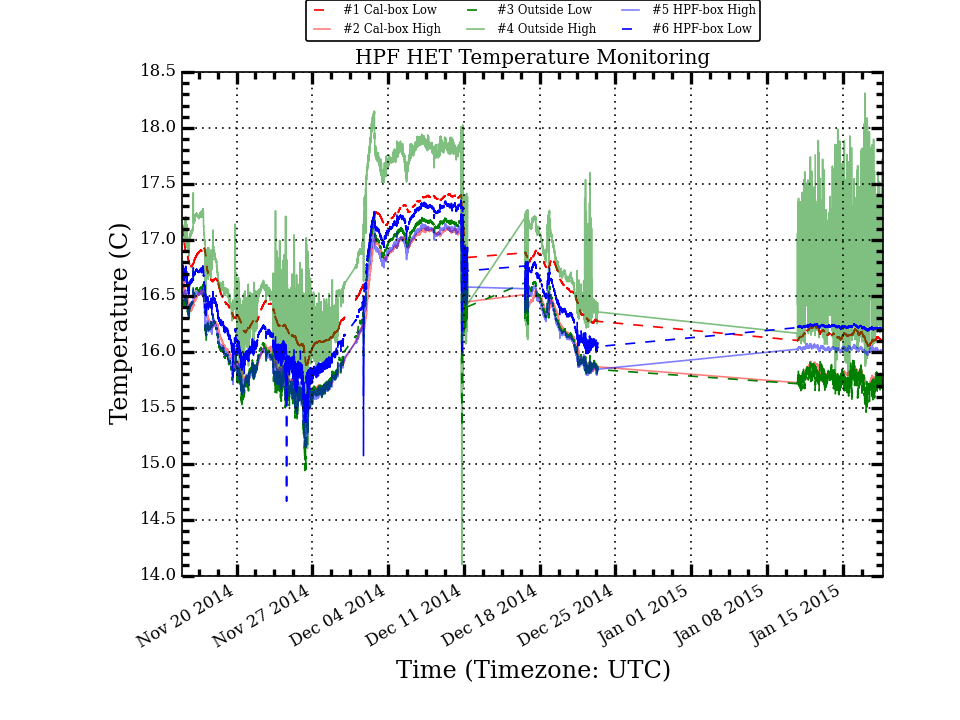
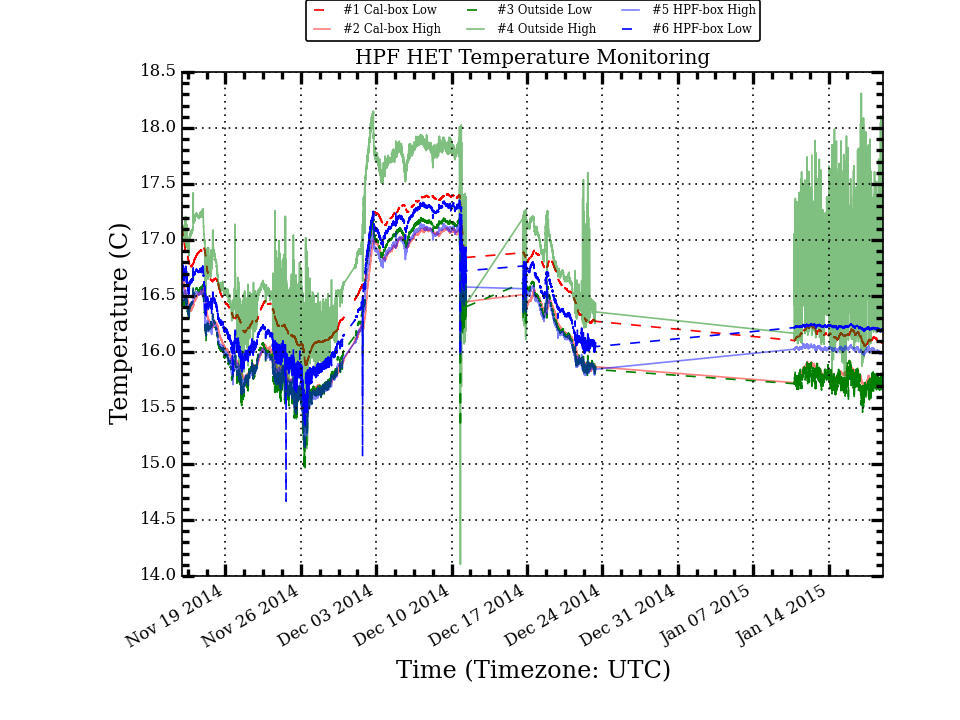
Update HPF Temp Plots

Changed region(s): [[0.1875, 0.0917, 0.9375, 0.9167], [0.125, 0.8556, 0.1875, 0.9167]]

diff --git a/research/hpf_temps/plots/LakeShoreLogTotal_today_stats.html b/research/hpf_temps/plots/LakeShoreLogTotal_today_stats.html
@@ -10,56 +10,56 @@
  </TR>
  <TR>
   <TD>Sensor1</TD>
-  <TD>16.118</TD>
-  <TD>0.009</TD>
-  <TD>16.115</TD>
+  <TD>16.111</TD>
+  <TD>0.014</TD>
+  <TD>16.111</TD>
   <TD>16.134</TD>
-  <TD>16.104</TD>
-  <TD>0.030</TD>
+  <TD>16.085</TD>
+  <TD>0.049</TD>
  </TR>
  <TR>
   <TD>Sensor2</TD>
-  <TD>15.760</TD>
-  <TD>0.016</TD>
-  <TD>15.756</TD>
+  <TD>15.748</TD>
+  <TD>0.025</TD>
+  <TD>15.749</TD>
   <TD>15.794</TD>
-  <TD>15.732</TD>
-  <TD>0.062</TD>
+  <TD>15.703</TD>
+  <TD>0.091</TD>
  </TR>
  <TR>
   <TD>Sensor3</TD>
-  <TD>15.730</TD>
+  <TD>15.728</TD>
   <TD>0.035</TD>
-  <TD>15.724</TD>
+  <TD>15.721</TD>
   <TD>15.822</TD>
   <TD>15.651</TD>
   <TD>0.171</TD>
  </TR>
  <TR>
   <TD>Sensor4</TD>
-  <TD>16.592</TD>
-  <TD>0.339</TD>
-  <TD>16.500</TD>
-  <TD>17.722</TD>
+  <TD>16.581</TD>
+  <TD>0.362</TD>
+  <TD>16.428</TD>
+  <TD>18.108</TD>
   <TD>16.173</TD>
-  <TD>1.549</TD>
+  <TD>1.935</TD>
  </TR>
  <TR>
   <TD>Sensor5</TD>
-  <TD>16.012</TD>
-  <TD>0.011</TD>
-  <TD>16.009</TD>
+  <TD>16.007</TD>
+  <TD>0.014</TD>
+  <TD>16.006</TD>
   <TD>16.040</TD>
-  <TD>15.988</TD>
-  <TD>0.052</TD>
+  <TD>15.979</TD>
+  <TD>0.061</TD>
  </TR>
  <TR>
   <TD>Sensor6</TD>
-  <TD>16.208</TD>
-  <TD>0.004</TD>
-  <TD>16.208</TD>
+  <TD>16.205</TD>
+  <TD>0.007</TD>
+  <TD>16.206</TD>
   <TD>16.221</TD>
-  <TD>16.194</TD>
-  <TD>0.027</TD>
+  <TD>16.181</TD>
+  <TD>0.040</TD>
  </TR>
 </TABLE>

diff --git a/research/hpf_temps/plots/LakeShoreLogTotal_week_stats.html b/research/hpf_temps/plots/LakeShoreLogTotal_week_stats.html
@@ -10,56 +10,56 @@
  </TR>
  <TR>
   <TD>Sensor1</TD>
-  <TD>16.152</TD>
-  <TD>0.041</TD>
-  <TD>16.153</TD>
-  <TD>16.235</TD>
+  <TD>16.138</TD>
+  <TD>0.035</TD>
+  <TD>16.147</TD>
+  <TD>16.202</TD>
   <TD>16.051</TD>
-  <TD>0.184</TD>
+  <TD>0.151</TD>
  </TR>
  <TR>
   <TD>Sensor2</TD>
-  <TD>15.798</TD>
-  <TD>0.048</TD>
-  <TD>15.798</TD>
-  <TD>15.915</TD>
+  <TD>15.782</TD>
+  <TD>0.040</TD>
+  <TD>15.787</TD>
+  <TD>15.874</TD>
   <TD>15.674</TD>
-  <TD>0.241</TD>
+  <TD>0.200</TD>
  </TR>
  <TR>
   <TD>Sensor3</TD>
-  <TD>15.746</TD>
-  <TD>0.068</TD>
-  <TD>15.747</TD>
+  <TD>15.736</TD>
+  <TD>0.064</TD>
+  <TD>15.736</TD>
   <TD>15.947</TD>
   <TD>15.463</TD>
   <TD>0.484</TD>
  </TR>
  <TR>
   <TD>Sensor4</TD>
+  <TD>16.659</TD>
+  <TD>0.381</TD>
   <TD>16.666</TD>
-  <TD>0.375</TD>
-  <TD>16.681</TD>
   <TD>18.311</TD>
   <TD>15.776</TD>
   <TD>2.535</TD>
  </TR>
  <TR>
   <TD>Sensor5</TD>
-  <TD>16.027</TD>
+  <TD>16.022</TD>
   <TD>0.017</TD>
-  <TD>16.028</TD>
-  <TD>16.073</TD>
+  <TD>16.025</TD>
+  <TD>16.067</TD>
   <TD>15.970</TD>
-  <TD>0.103</TD>
+  <TD>0.097</TD>
  </TR>
  <TR>
   <TD>Sensor6</TD>
-  <TD>16.225</TD>
+  <TD>16.221</TD>
   <TD>0.013</TD>
-  <TD>16.227</TD>
-  <TD>16.251</TD>
-  <TD>16.186</TD>
-  <TD>0.065</TD>
+  <TD>16.224</TD>
+  <TD>16.250</TD>
+  <TD>16.181</TD>
+  <TD>0.069</TD>
  </TR>
 </TABLE>

diff --git a/research/hpf_temps/plots/LakeShoreLogTotal_stats.html b/research/hpf_temps/plots/LakeShoreLogTotal_stats.html
@@ -10,54 +10,54 @@
  </TR>
  <TR>
   <TD>Sensor1</TD>
-  <TD>16.578</TD>
-  <TD>0.456</TD>
-  <TD>16.428</TD>
+  <TD>16.574</TD>
+  <TD>0.457</TD>
+  <TD>16.426</TD>
   <TD>17.410</TD>
   <TD>15.840</TD>
   <TD>1.570</TD>
  </TR>
  <TR>
   <TD>Sensor2</TD>
-  <TD>16.212</TD>
+  <TD>16.207</TD>
   <TD>0.488</TD>
-  <TD>16.023</TD>
+  <TD>16.018</TD>
   <TD>17.114</TD>
   <TD>15.410</TD>
   <TD>1.704</TD>
  </TR>
  <TR>
   <TD>Sensor3</TD>
-  <TD>16.204</TD>
+  <TD>16.200</TD>
   <TD>0.539</TD>
-  <TD>15.985</TD>
+  <TD>15.978</TD>
   <TD>17.201</TD>
   <TD>14.942</TD>
   <TD>2.259</TD>
  </TR>
  <TR>
   <TD>Sensor4</TD>
-  <TD>16.866</TD>
-  <TD>0.596</TD>
-  <TD>16.752</TD>
+  <TD>16.863</TD>
+  <TD>0.595</TD>
+  <TD>16.745</TD>
   <TD>18.311</TD>
   <TD>14.104</TD>
   <TD>4.207</TD>
  </TR>
  <TR>
   <TD>Sensor5</TD>
-  <TD>16.242</TD>
-  <TD>0.476</TD>
-  <TD>16.044</TD>
+  <TD>16.240</TD>
+  <TD>0.474</TD>
+  <TD>16.043</TD>
   <TD>17.147</TD>
   <TD>15.149</TD>
   <TD>1.998</TD>
  </TR>
  <TR>
   <TD>Sensor6</TD>
-  <TD>16.443</TD>
-  <TD>0.472</TD>
-  <TD>16.238</TD>
+  <TD>16.441</TD>
+  <TD>0.471</TD>
+  <TD>16.237</TD>
   <TD>17.356</TD>
   <TD>14.668</TD>
   <TD>2.688</TD>
